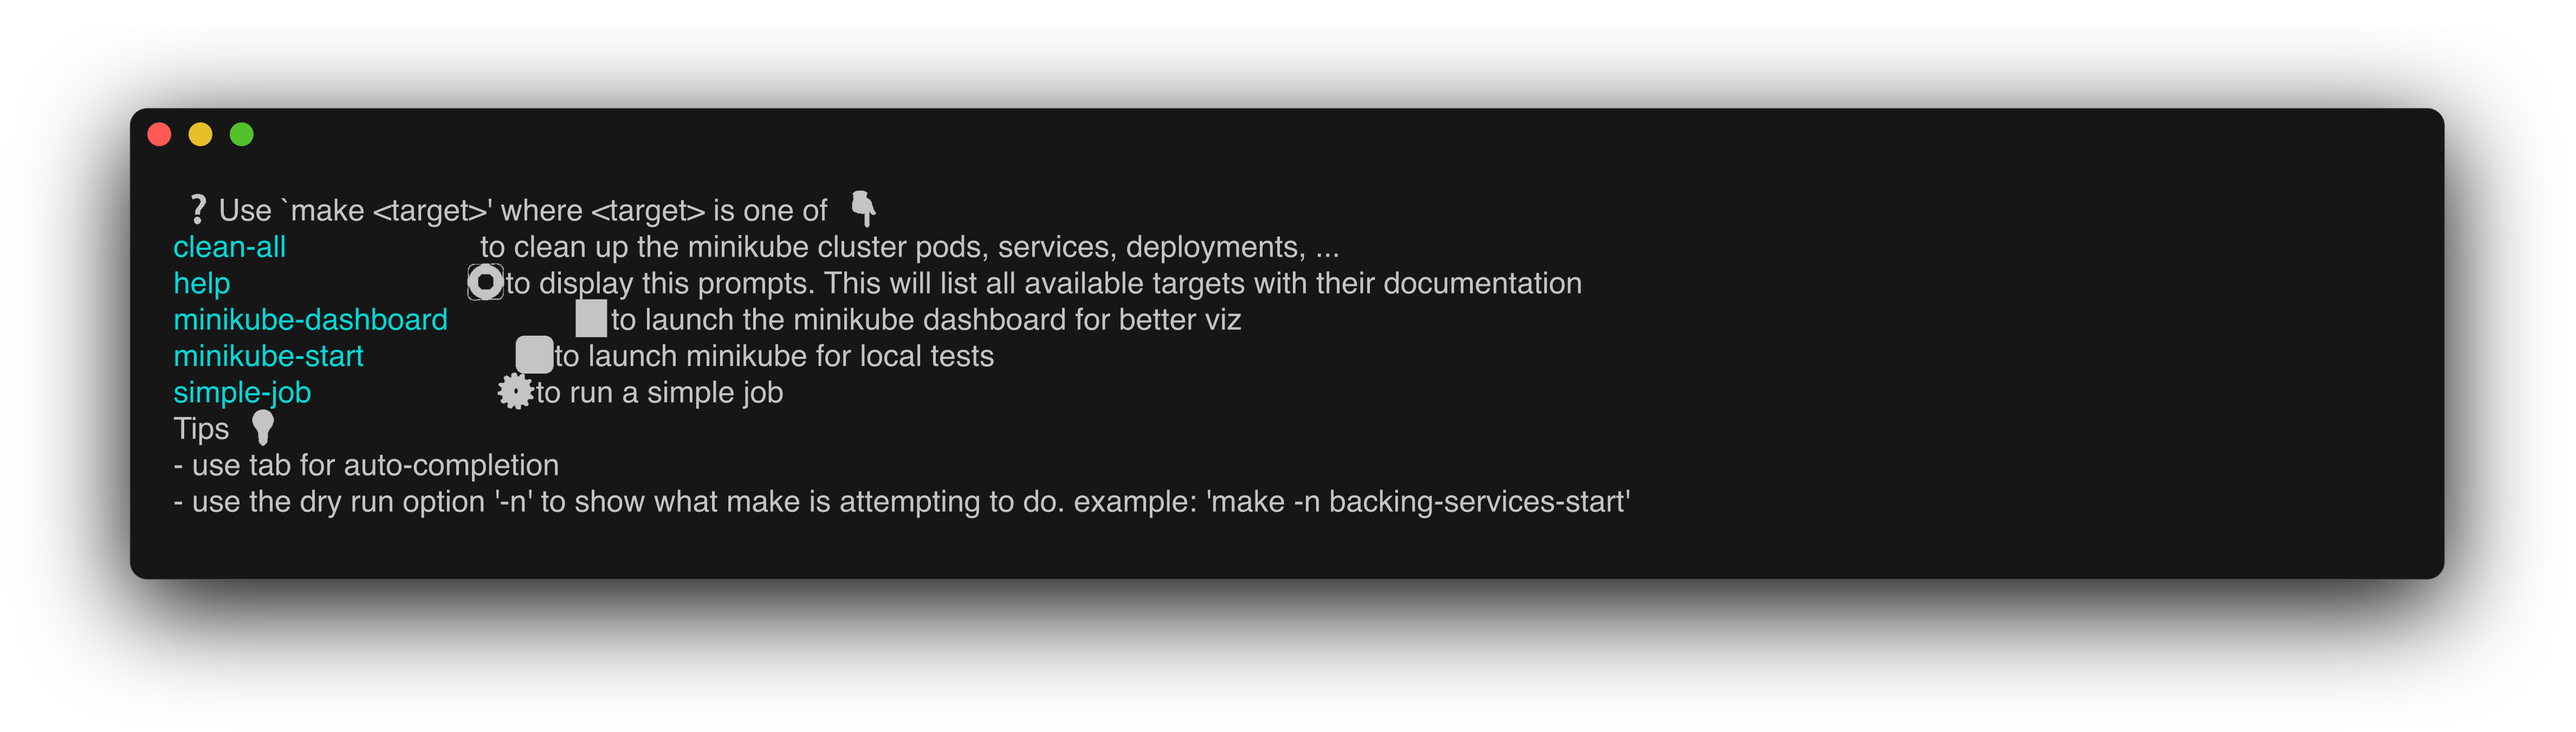
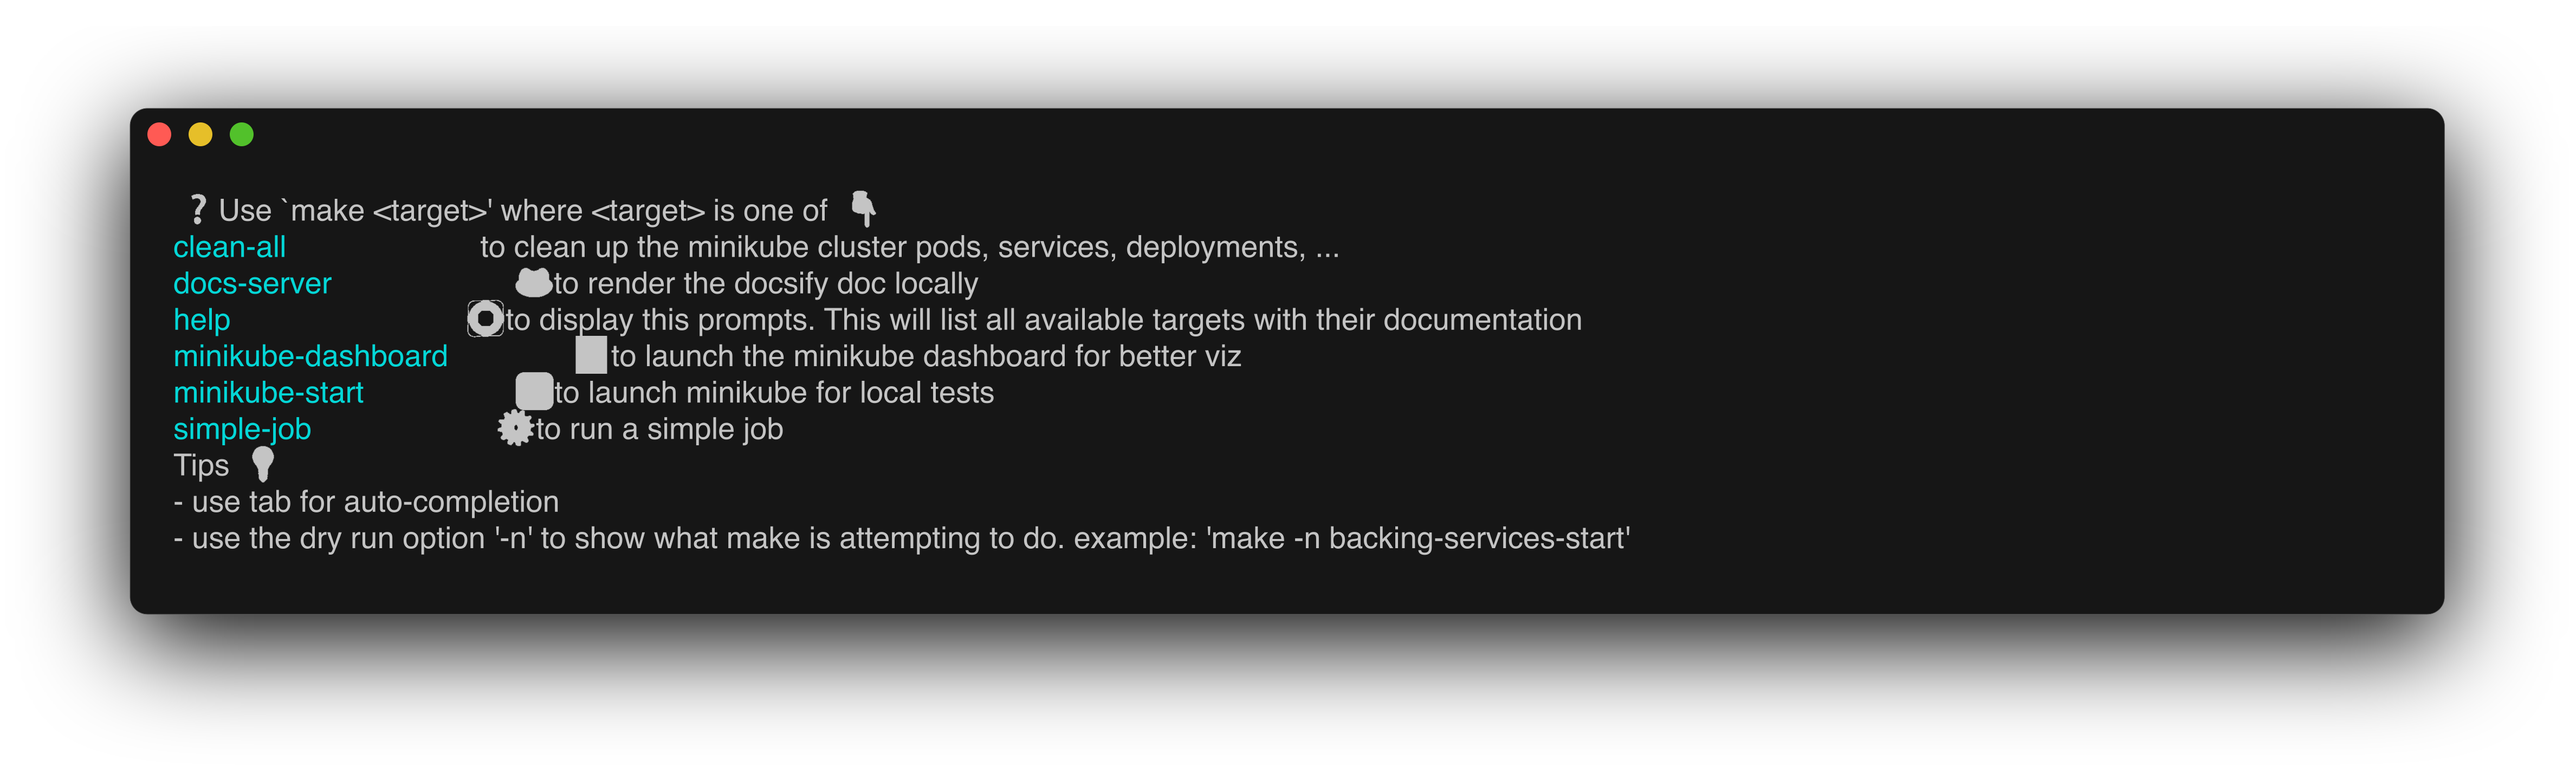
🐸 Readme to docsify ✨

Changed region(s): [[0.0623, 0.2485, 0.6538, 0.7145], [0.0623, 0.1243, 0.9651, 0.2175], [0.0311, 0.7766, 0.9651, 0.8077]]

diff --git a/docs/index.html b/docs/index.html
@@ -1,0 +1,38 @@
+<!DOCTYPE html>
+<html lang="en">
+<head>
+  <meta charset="UTF-8">
+  <title>Document</title>
+  <meta http-equiv="X-UA-Compatible" content="IE=edge,chrome=1" />
+  <meta name="description" content="Description">
+  <meta name="viewport" content="width=device-width, initial-scale=1.0, minimum-scale=1.0">
+  <link rel="stylesheet" href="//cdn.jsdelivr.net/npm/docsify@4/lib/themes/vue.css">
+</head>
+<body>
+  <div id="app"></div>
+  <script>
+    window.$docsify = {
+      coverpage: true,
+      name: '',
+      repo: '',
+      loadSidebar: true,
+      subMaxLevel: 2,
+      search: 'auto',
+      search: {
+      maxAge: 86400000, // Expiration time, the default one day
+      paths: [], // or 'auto'
+      placeholder: 'Type to search',
+      noData: 'No Results!',
+      // Headline depth, 1 - 6
+      depth: 2,
+      hideOtherSidebarContent: false, // whether or not to hide other sidebar content
+    },
+    }
+  </script>
+  <!-- Docsify v4 -->
+  <script src="//cdn.jsdelivr.net/npm/docsify@4"></script>
+  <script src="//cdn.jsdelivr.net/npm/docsify/lib/docsify.min.js"></script>
+  <script src="//cdn.jsdelivr.net/npm/docsify/lib/plugins/search.min.js"></script>
+  <script src="https://unpkg.com/docsify-plugin-flexible-alerts"></script>
+</body>
+</html>

diff --git a/docs/1_define_and_build_an_image.md b/docs/1_define_and_build_an_image.md
@@ -1,63 +1,4 @@
-# Préparation certif' CKAD
-
-- [Préparation certif' CKAD](#préparation-certif-ckad)
-  - [Quelques commandes](#quelques-commandes)
-    - [Pré-requis](#pré-requis)
-  - [Ressources pour se former](#ressources-pour-se-former)
-  - [Des commandes utiles en vrac ❗](#des-commandes-utiles-en-vrac-)
-    - [Pointeurs de doc autorisés pendant la certif'](#pointeurs-de-doc-autorisés-pendant-la-certif)
-  - [Define and build image](#define-and-build-image)
-  - [Jobs \& CronJobs](#jobs--cronjobs)
-    - [Pour s'exercer](#pour-sexercer)
-  - [Multi-container pods](#multi-container-pods)
-    - [Ambassador pattern](#ambassador-pattern)
-      - [Use case](#use-case)
-    - [Adapter pattern](#adapter-pattern)
-      - [Use case : transformation vers un puits de logs](#use-case--transformation-vers-un-puits-de-logs)
-    - [Init pattern](#init-pattern)
-    - [Autres pointeurs](#autres-pointeurs)
-  - [Utilise persistent \& ephemeral volumes](#utilise-persistent--ephemeral-volumes)
-
-## Quelques commandes
-
-![Availble commands](docs/available-commands.png)
-
-### Pré-requis
-
-- 🥏 [Kubectl](https://kubernetes.io/fr/docs/tasks/tools/install-kubectl/)
-- 🚐 [Minikube](https://kubernetes.io/fr/docs/tasks/tools/install-minikube/)
-- 🐳 Docker ou [Colima](https://github.com/abiosoft/colima)
-- ⚙ make (>v4)
-- 🧊 [charmbracelet/freeze](https://github.com/charmbracelet/freeze)
-
-## Ressources pour se former
-
-- Cours Pluralsight [Certified Kubernetes Application Developer: Application Design and Build](https://app.pluralsight.com/library/courses/ckad-services-networking-cert/table-of-contents) de [Nigel Poulton](https://www.nigelpoulton.com/)
-- Pages officielles du CNCF sur le contenu de l'examen :
-  - ℹ A propos : <https://www.cncf.io/training/certification/ckad/>
-  - 📖 Certificate handbook : <https://docs.linuxfoundation.org/tc-docs/certification/lf-handbook2>
-  - 💡 Exam tips : <https://docs.linuxfoundation.org/tc-docs/certification/tips-cka-and-ckad>
-  - ❓ FAQ : <https://docs.linuxfoundation.org/tc-docs/certification/faq-cka-ckad-cks>
-  - 🎲 Cheatsheet : <https://kubernetes.io/docs/reference/kubectl/quick-reference/>
-
-## Des commandes utiles en vrac ❗
-
-| Use case                                       | Commandes                                                                           |
-| ---------------------------------------------- | ----------------------------------------------------------------------------------- |
-| Pour se connecter à un namespace               | `$> kubectl config set-context --current --namespace=<insert-namespace-name-here>;` |
-| Pour voir les logs d'un pod                    | `$> kubectl logs <pod-id>;`                                                         |
-| Si pas ou pas assez de logs                    | `$> kubectl describe pod <pod-id>`                                                  |
-| Editer un pod pour lequel on n'a pas de config | `$> kubectl get pod <pod-name> -o yaml > pod-definition.yaml`                       |
-| Editer un pod                                  | `$> kubectl edit pod <pod-name>`                                                    |
-
-### Pointeurs de doc autorisés pendant la certif'
-
-- <https://kubernetes.io/docs/concepts/workloads/controllers/job/>
-- <https://kubernetes.io/docs/reference/kubernetes-api/workload-resources/job-v1/>
-- <https://kubernetes.io/docs/concepts/workloads/controllers/cron-jobs/>
-- <https://kubernetes.io/docs/reference/kubernetes-api/workload-resources/cron-job-v1/>
-
-## Define and build image
+# Define and build image
 
 - Pour save une image : `$> docker save ckad:docker --output ckad.tar`
 - Pour save & compresser une image : `$> docker save ckad:docker | gzip > image .tar.gz`
@@ -68,7 +9,7 @@
 > [!TIP]
 > Pour aller + loin : <https://github.com/nigelpoulton/ckad>
 
-### Jobs & CronJobs
+## Jobs & CronJobs
 
 >[!Warning]
 > Il peut arriver qu'on nous demande de se positionner dans un namespace précis pour faire des actions, mais sans nous dire comment faire :

diff --git a/docs/utils.md b/docs/utils.md
@@ -1,0 +1,28 @@
+# 🎆 Divers
+
+## Ressources pour se former
+
+- Cours Pluralsight [Certified Kubernetes Application Developer: Application Design and Build](https://app.pluralsight.com/library/courses/ckad-services-networking-cert/table-of-contents) de [Nigel Poulton](https://www.nigelpoulton.com/)
+- Pages officielles du CNCF sur le contenu de l'examen :
+  - ℹ A propos : <https://www.cncf.io/training/certification/ckad/>
+  - 📖 Certificate handbook : <https://docs.linuxfoundation.org/tc-docs/certification/lf-handbook2>
+  - 💡 Exam tips : <https://docs.linuxfoundation.org/tc-docs/certification/tips-cka-and-ckad>
+  - ❓ FAQ : <https://docs.linuxfoundation.org/tc-docs/certification/faq-cka-ckad-cks>
+  - 🎲 Cheatsheet : <https://kubernetes.io/docs/reference/kubectl/quick-reference/>
+
+## Des commandes utiles en vrac ❗
+
+| Use case                                       | Commandes                                                                           |
+| ---------------------------------------------- | ----------------------------------------------------------------------------------- |
+| Pour se connecter à un namespace               | `$> kubectl config set-context --current --namespace=<insert-namespace-name-here>;` |
+| Pour voir les logs d'un pod                    | `$> kubectl logs <pod-id>;`                                                         |
+| Si pas ou pas assez de logs                    | `$> kubectl describe pod <pod-id>`                                                  |
+| Editer un pod pour lequel on n'a pas de config | `$> kubectl get pod <pod-name> -o yaml > pod-definition.yaml`                       |
+| Editer un pod                                  | `$> kubectl edit pod <pod-name>`                                                    |
+
+### Pointeurs de doc autorisés pendant la certif'
+
+- <https://kubernetes.io/docs/concepts/workloads/controllers/job/>
+- <https://kubernetes.io/docs/reference/kubernetes-api/workload-resources/job-v1/>
+- <https://kubernetes.io/docs/concepts/workloads/controllers/cron-jobs/>
+- <https://kubernetes.io/docs/reference/kubernetes-api/workload-resources/cron-job-v1/>

diff --git a/docs/_coverpage.md b/docs/_coverpage.md
@@ -1,0 +1,12 @@
+![logo](https://training.linuxfoundation.org/wp-content/uploads/2019/03/kubernetes-ckad-color-300x294.png)
+
+# Préparation Certification CKAD ☸🐳☸
+
+> A magical documentation site generator.
+
+- Simple and lightweight
+- No statically built html files
+- Multiple themes
+
+[GitHub](https://github.com/Mehdi-H/preparation-certif-ckad)
+[Démarrer](/README)

diff --git a/docs/README.md b/docs/README.md
@@ -1,0 +1,7 @@
+# Préparation certif' CKAD
+
+[filename](_sidebar.md ':include')
+
+---
+
+[filename](utils.md ':include')

diff --git a/docs/_sidebar.md b/docs/_sidebar.md
@@ -1,0 +1,3 @@
+* [Home](README.md)
+* [1. Define & build an image](1_define_and_build_an_image.md)
+* [Divers](utils.md)
